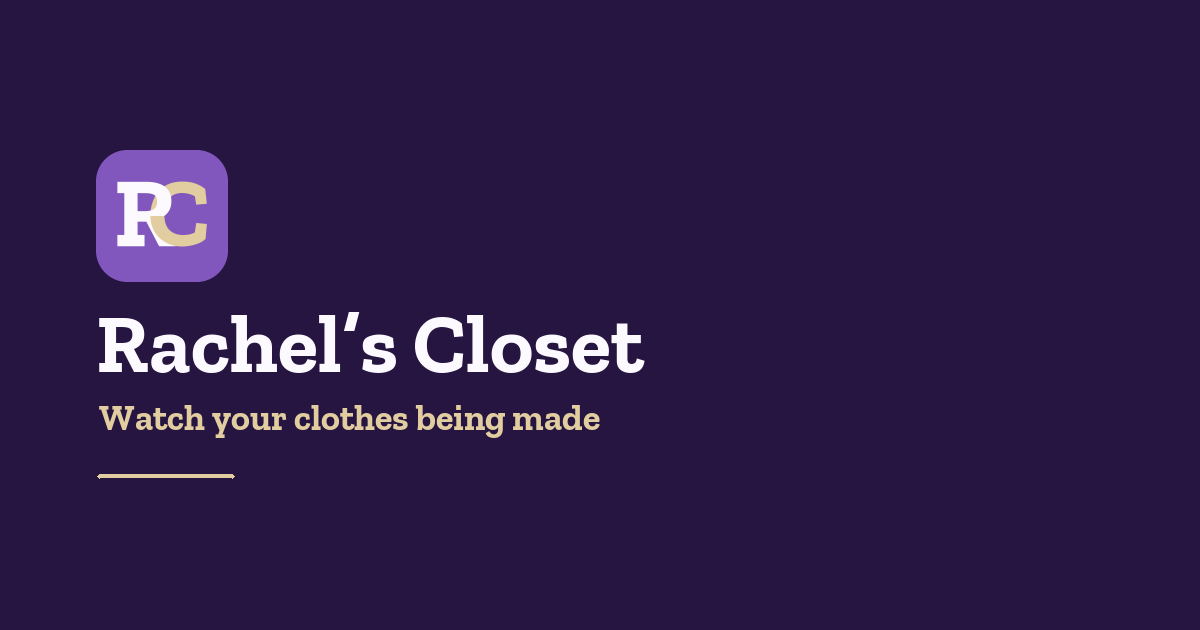
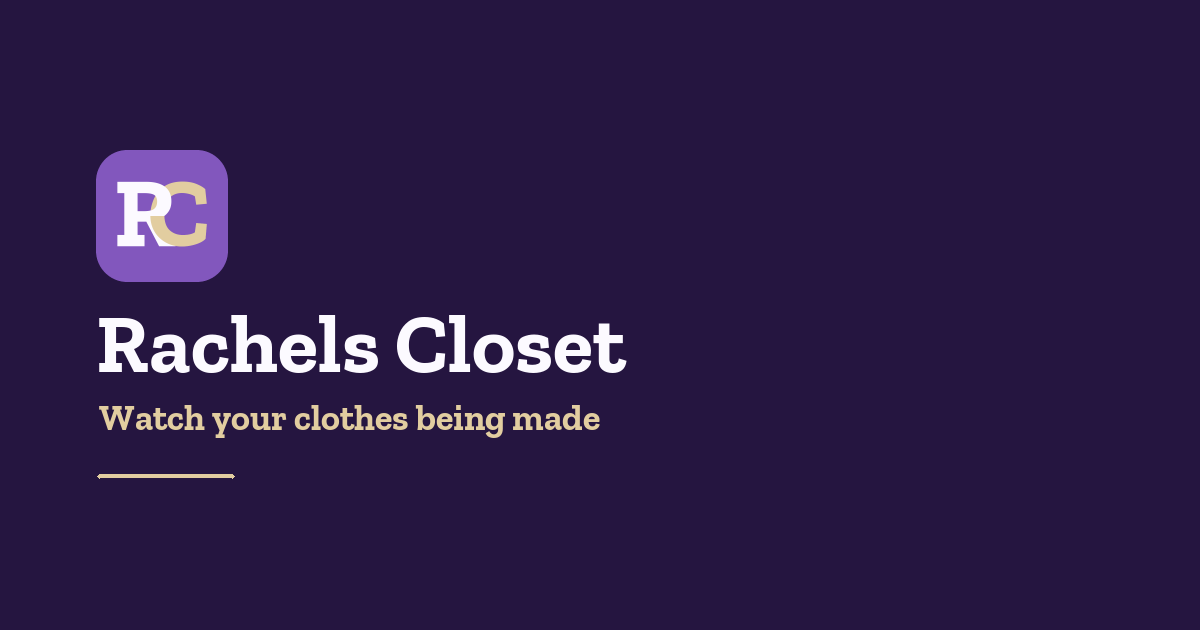
Rachels Closet, without the apostrophe
Copy, notifications, tests and brand assets (re-rendered by brand:build).
Rachel's survives only where it means the person.

Changed region(s): [[0.2775, 0.4825, 0.555, 0.6032]]

diff --git a/public/css/design-system.css b/public/css/design-system.css
@@ -1,5 +1,5 @@
 /*
- * Rachel's Closet — the design language.
+ * Rachels Closet — the design language.
  * ============================================================================
  *
  * CANONICAL COPY. The React app carries a mirror of the :root token blocks in

diff --git a/public/js/motion.js b/public/js/motion.js
@@ -1,5 +1,5 @@
 /*
- * Rachel's Closet — motion.
+ * Rachels Closet — motion.
  * ============================================================================
  *
  * Everything the reference template spends 1.12MB of libraries on, in one file

diff --git a/app/Http/Controllers/Api/DisputeController.php b/app/Http/Controllers/Api/DisputeController.php
@@ -52,7 +52,7 @@ class DisputeController extends Controller
             422,
             match (true) {
                 $order->hasOpenDispute() => 'You have already told us about this order. We will call you.',
-                ! $order->isEscrow() => 'This order was paid straight to your tailor, so Rachel\'s Closet '
+                ! $order->isEscrow() => 'This order was paid straight to your tailor, so Rachels Closet '
                     .'cannot hold or return the money. Please speak to your tailor.',
                 default => 'You can tell us about a problem once you have the garment.',
             },
@@ -106,13 +106,13 @@ class DisputeController extends Controller
         }
 
         /*
-         * Only an order whose money Rachel's Closet holds.
+         * Only an order whose money Rachels Closet holds.
          *
          * A dispute here is a freeze on that money followed by two phone
          * calls. On a direct order the customer paid the tailor herself, so
          * there is nothing to freeze and nothing the platform can refund or
          * release -- offering the button would promise "the money stays
-         * with Rachel's Closet" about money it never had. This was a real
+         * with Rachels Closet" about money it never had. This was a real
          * hole: a direct order has no payout row, so the paid-out check
          * below always answered "not yet" and the button showed.
          */

diff --git a/config/gallery.php b/config/gallery.php
@@ -75,7 +75,7 @@ return [
         ['quote' => 'I stopped answering the same question forty times a week. They can see it for themselves now.', 'name' => 'Blessing O.', 'role' => 'Tailor', 'where' => 'Enugu', 'rating' => 5],
         ['quote' => 'My aso-ebi was ready three days before the wedding. I knew because my phone told me, not because I went there.', 'name' => 'Amaka N.', 'role' => 'Customer', 'where' => 'Lagos', 'rating' => 5],
         ['quote' => 'I photograph the measurement book and it is saved. I no longer ask a customer to come back just to be measured again.', 'name' => 'Ibrahim S.', 'role' => 'Tailor', 'where' => 'Kano', 'rating' => 5],
-        ['quote' => 'I paid half and the rest stayed with Rachel&rsquo;s Closet until I collected. That is the part that made me try it.', 'name' => 'Chioma E.', 'role' => 'Customer', 'where' => 'Port Harcourt', 'rating' => 4],
+        ['quote' => 'I paid half and the rest stayed with Rachels Closet until I collected. That is the part that made me try it.', 'name' => 'Chioma E.', 'role' => 'Customer', 'where' => 'Port Harcourt', 'rating' => 4],
         ['quote' => 'Customers used to arrive on the wrong day and meet nothing ready. That does not happen any more.', 'name' => 'Taiwo A.', 'role' => 'Tailor', 'where' => 'Ibadan', 'rating' => 5],
     ],
 

diff --git a/app/Console/Commands/BuildBrandAssets.php b/app/Console/Commands/BuildBrandAssets.php
@@ -262,7 +262,7 @@ class BuildBrandAssets extends Command
         $bone = $this->rgb($im, self::BONE);
         $champagne = $this->rgb($im, self::CHAMPAGNE);
 
-        imagettftext($im, 62, 0, 96, 372, $bone, $this->font, "Rachel\u{2019}s Closet");
+        imagettftext($im, 62, 0, 96, 372, $bone, $this->font, 'Rachels Closet');
         imagettftext($im, 27, 0, 99, 430, $champagne, $this->font, 'Watch your clothes being made');
 
         $this->roundLine($im, 99, 476, 232, 476, 4, $champagne);
@@ -275,7 +275,7 @@ class BuildBrandAssets extends Command
     {
         $markSize = 120;
         $gap = 28;
-        $text = "Rachel\u{2019}s Closet";
+        $text = 'Rachels Closet';
         $fontSize = 58;
 
         $box = imagettfbbox($fontSize, 0, $this->font, $text);

diff --git a/app/Services/Payments/RefundOrder.php b/app/Services/Payments/RefundOrder.php
@@ -38,11 +38,11 @@ class RefundOrder
             /*
              * Only money the platform holds can be given back by it. A direct
              * order was paid to the tailor by hand; refunding it here would
-             * mean Rachel's Closet paying out of its own pocket for money it
+             * mean Rachels Closet paying out of its own pocket for money it
              * never received.
              */
             if (! $order->isEscrow()) {
-                throw new RuntimeException('This order was paid straight to the tailor. Rachel\'s Closet holds nothing to refund.');
+                throw new RuntimeException('This order was paid straight to the tailor. Rachels Closet holds nothing to refund.');
             }
 
             $paid = $order->paidTotal();

diff --git a/app/Notifications/DisputeResolved.php b/app/Notifications/DisputeResolved.php
@@ -34,8 +34,8 @@ class DisputeResolved extends ClosetNotification
     {
         $message = match ($this->dispute->outcome) {
             Dispute::REFUNDED => $this->dispute->refunded_amount
-                ? "Rachel's Closet has sent money back to the customer."
-                : "Rachel's Closet has sent your money back to you.",
+                ? 'Rachels Closet has sent money back to the customer.'
+                : 'Rachels Closet has sent your money back to you.',
             Dispute::RELEASED => 'The money has gone to the tailor.',
             default => 'Nothing needed to change, so the order carries on as normal.',
         };

diff --git a/app/Http/Controllers/Api/SubscriptionController.php b/app/Http/Controllers/Api/SubscriptionController.php
@@ -114,7 +114,7 @@ class SubscriptionController extends Controller
             $link = $this->gateways->active()->initialise(
                 $payment->load('payer'),
                 rtrim((string) config('app.frontend_url'), '/').'/subscription/paid',
-                ucfirst($validated['plan']).' listing on Rachel\'s Closet — '.$plan['days'].' days',
+                ucfirst($validated['plan']).' listing on Rachels Closet — '.$plan['days'].' days',
             );
         } catch (RuntimeException $exception) {
             // The row stays, marked failed, so the attempt is visible when

diff --git a/database/migrations/2026_10_01_090000_add_direct_to_payments_provider.php b/database/migrations/2026_10_01_090000_add_direct_to_payments_provider.php
@@ -7,7 +7,7 @@ use Illuminate\Support\Facades\DB;
  * A second payment "provider": the customer's own hand.
  *
  * On a direct order the customer pays the tailor herself -- cash, a bank
- * transfer, a POS -- and nothing passes through Rachel's Closet. Until now the
+ * transfer, a POS -- and nothing passes through Rachels Closet. Until now the
  * only way such an order could leave pending_payment was the Pay button, which
  * charged the customer through Flutterwave INTO THE PLATFORM'S ACCOUNT and
  * recorded no payout, because a direct order has none. The tailor was never

diff --git a/app/Models/PlatformSetting.php b/app/Models/PlatformSetting.php
@@ -140,7 +140,7 @@ class PlatformSetting extends Model
      * The number a locked-out person rings.
      *
      * The ONLY way back in after a forgotten PIN starts with a phone call to
-     * Rachel's Closet -- nothing here sends an SMS or an email, and a reset is
+     * Rachels Closet -- nothing here sends an SMS or an email, and a reset is
      * admin-issued on purpose -- so this number is the whole of the "forgot
      * PIN" flow as far as she can see. A setting rather than a constant
      * because it is a real phone in somebody's hand: a changed SIM must not

diff --git a/app/Http/Controllers/Api/DirectPaymentController.php b/app/Http/Controllers/Api/DirectPaymentController.php
@@ -122,7 +122,7 @@ class DirectPaymentController extends Controller
         abort_unless($order->involves($request->user()), 404);
         abort_unless($order->tailor_id === $request->user()->id, 403, 'Only the tailor can record this.');
 
-        abort_if($order->isEscrow(), 422, 'This order is paid through Rachel\'s Closet, not to you directly.');
+        abort_if($order->isEscrow(), 422, 'This order is paid through Rachels Closet, not to you directly.');
         abort_if($order->status === Order::CANCELLED, 422, 'This order was cancelled.');
     }
 

diff --git a/resources/views/public/tailor-unlisted.blade.php b/resources/views/public/tailor-unlisted.blade.php
@@ -1,9 +1,9 @@
 @extends('public.layout')
 
-@section('title', $profile->business_name . " — Rachel's Closet")
+@section('title', $profile->business_name . " — Rachels Closet")
 {{-- Deliberately not indexed: she is not listed, and a search engine should
      not start ranking a page that says so. --}}
-@section('description', 'This tailor is not currently listed on Rachel\'s Closet.')
+@section('description', 'This tailor is not currently listed on Rachels Closet.')
 
 @section('noindex', true)
 
